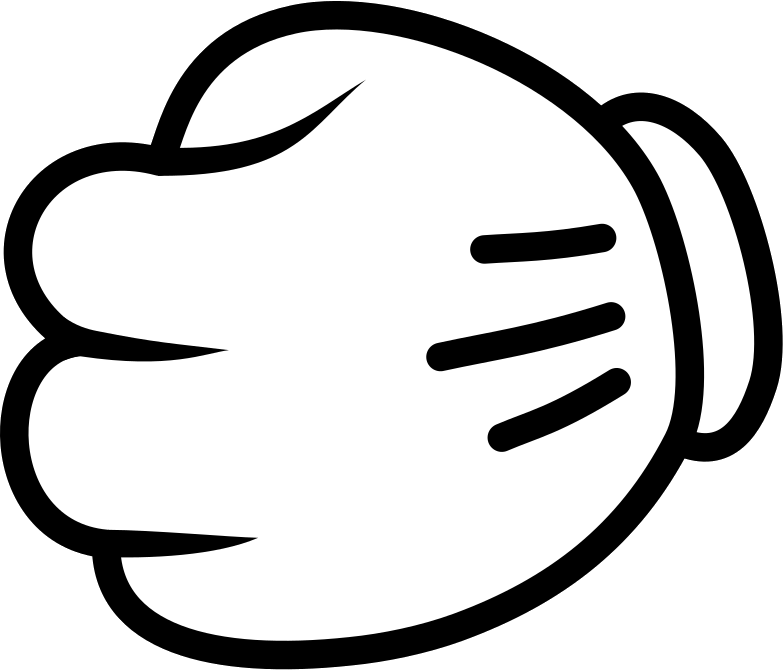
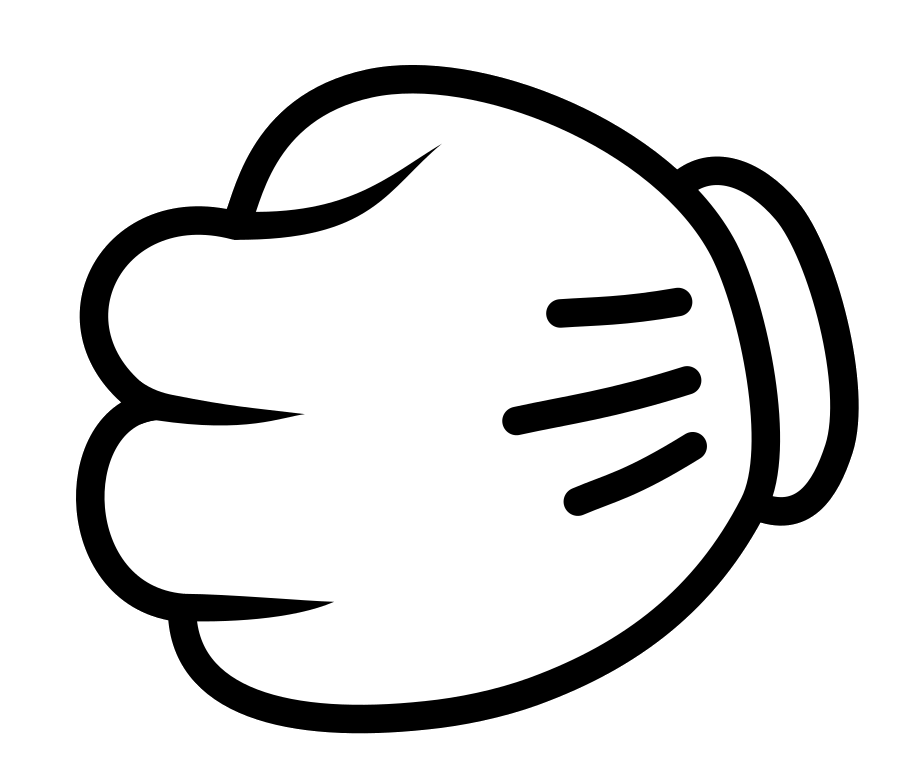
feat: functionality

Changed region(s): [[0.0, 0.0, 1.0, 1.0], [0.5211, 0.4776, 0.7356, 0.5672], [0.4598, 0.1791, 0.4904, 0.209]]

diff --git a/rock-paper-scissors.min.css b/rock-paper-scissors.min.css
@@ -1,2 +1,2 @@
-*{padding:0;margin:0}body{font-family:'Acme', sans-serif}h1{font-size:60px;margin-bottom:100px}.game{display:-webkit-box;display:-ms-flexbox;display:flex;-webkit-box-orient:vertical;-webkit-box-direction:normal;-ms-flex-direction:column;flex-direction:column;-webkit-box-align:center;-ms-flex-align:center;align-items:center;background:yellow;padding:50px;height:100vh}.game__container{display:-webkit-box;display:-ms-flexbox;display:flex;-webkit-box-pack:justify;-ms-flex-pack:justify;justify-content:space-between;width:60%}.game__computer,.game__gamer{display:-webkit-box;display:-ms-flexbox;display:flex;-webkit-box-orient:vertical;-webkit-box-direction:normal;-ms-flex-direction:column;flex-direction:column;-webkit-box-align:center;-ms-flex-align:center;align-items:center}.game__computer_rock,.game__gamer_rock{width:350px;height:300px}.game__computer_rock{background-image:url("./acess/rock.png")}.game__gamer_rock{background-image:url("./acess/rock-right.png")}.game__computer_rock,.game__gamer_rock{background-repeat:no-repeat;background-size:contain;background-position:center center}.game__name{margin:50px 0;font-size:30px}.game__control-panel{display:-webkit-box;display:-ms-flexbox;display:flex;margin:70px 0;width:100%}.game__button{width:100px;padding:10px;border:none;background:#000;color:#fff;font-size:15px;margin:0 10px;cursor:pointer;outline:none;-webkit-transition:all 0.5s;transition:all 0.5s}.game__button:hover,.game__button:active{-webkit-transform:scale(1.1);transform:scale(1.1)}.game__control-panel_play{display:none}.game__button_enabled{display:block}.game__control-panel_empty{width:45%}.game__control-panel_button{width:10%;text-align:center}.game__control-panel_buttons{width:45%;display:-webkit-box;display:-ms-flexbox;display:flex;-webkit-box-pack:center;-ms-flex-pack:center;justify-content:center}
+*{padding:0;margin:0}body{font-family:'Acme', sans-serif}h1{font-size:60px;margin-bottom:100px}.game{display:-webkit-box;display:-ms-flexbox;display:flex;-webkit-box-orient:vertical;-webkit-box-direction:normal;-ms-flex-direction:column;flex-direction:column;-webkit-box-align:center;-ms-flex-align:center;align-items:center;background:yellow;padding:50px;height:100vh}.game__container{display:-webkit-box;display:-ms-flexbox;display:flex;-webkit-box-pack:justify;-ms-flex-pack:justify;justify-content:space-between;width:60%}.game__computer,.game__gamer{display:-webkit-box;display:-ms-flexbox;display:flex;-webkit-box-orient:vertical;-webkit-box-direction:normal;-ms-flex-direction:column;flex-direction:column;-webkit-box-align:center;-ms-flex-align:center;align-items:center}.game__computer_rock,.game__gamer_rock{width:400px;height:350px}.game__computer_rock{background-image:url("./acess/rock.png")}.game__gamer_rock{background-image:url("./acess/rock-right.png")}.game__computer_rock,.game__gamer_rock{background-repeat:no-repeat;background-size:contain;background-position:center center}.game__name{margin:50px 0;font-size:30px}.game__control-panel{display:-webkit-box;display:-ms-flexbox;display:flex;margin:70px 0;width:100%}.game__button{width:100px;padding:10px;border:none;background:#000;color:#fff;font-size:15px;margin:0 10px;cursor:pointer;outline:none;-webkit-transition:all 0.5s;transition:all 0.5s}.game__button:hover,.game__button:active{-webkit-transform:scale(1.1);transform:scale(1.1)}.game__control-panel_play{display:none}.game__button_enabled{display:block}.game__button_disable{background:rgba(0,0,0,0.5)}.game__control-panel_empty{width:45%}.game__control-panel_button{width:10%;text-align:center}.game__control-panel_buttons{width:45%;display:-webkit-box;display:-ms-flexbox;display:flex;-webkit-box-pack:center;-ms-flex-pack:center;justify-content:center}.game__animated{-webkit-transform:translate(-60%);transform:translate(-60%);-webkit-transition:-webkit-transform 6s steps(6, start);transition:-webkit-transform 6s steps(6, start);transition:transform 6s steps(6, start);transition:transform 6s steps(6, start), -webkit-transform 6s steps(6, start)}
 /*# sourceMappingURL=rock-paper-scissors.min.css.map */

diff --git a/rock-paper-scissors.js b/rock-paper-scissors.js
@@ -4,30 +4,63 @@ const rockButton = document.querySelector('.game__control-panel_rock');
 const paperButton = document.querySelector('.game__control-panel_paper');
 const scissorsButton = document.querySelector('.game__control-panel_scissors');
 let gamerImage = document.querySelector('.game__gamer_rock');
+let computerImage = document.querySelector('.game__computer_rock');
+let rock = './acess/rock.png';
+let scissors = './acess/scissors.png';
+let paper = './acess/paper.png';
+const items = [rock, scissors, paper];
+let choiceGamer;
+let choiseComputer;
 
 const enableButtonPlay = () => {
   buttonPlay.classList.add('game__button_enabled');
 };
-const disableButtons = () => {
-  // дисаблить остальные кнопки при клике на play 
-};
+
+const reverseImage = () => {
+  gamerImage.style.transform = 'scale(-1, 1)';
+}
 
 const showRockImage = () => {
-  gamerImage.style.backgroundImage = 'url("./acess/rock-right.png")';
+  gamerImage.style.backgroundImage = 'url(' + rock + ')';
+  reverseImage();
 }
 
 const showScissorsImage = () => {
-  gamerImage.style.backgroundImage = 'url("./acess/scissors-right.png")';
+  gamerImage.style.backgroundImage = 'url(' + scissors + ')';
+  reverseImage();
 }
 
 const showPaperImage = () => {
-  gamerImage.style.backgroundImage = 'url("./acess/paper-right.png")';
+  gamerImage.style.backgroundImage = 'url(' + paper + ')';
+  reverseImage();
+}
+
+const startPlay = () => {
+  dissabledButtons();
+  // shakerAnimation(); ??? добавить анимацию
+  showChoiceComputers();
+};
+
+const dissabledButtons = () => {
+  buttons.forEach(el => {
+    el.classList.add('game__button_disable');
+    el.disabled = true;
+  });
+}
+
+const showChoiceComputers = () => {
+  choiseComputer = items[Math.floor(Math.random() * 3)];   
+  computerImage.style.backgroundImage = 'url(' + choiseComputer + ')';
 }
 
 buttons.forEach(element => {
   return element.addEventListener('click', enableButtonPlay);
 });
 
-rockButton.addEventListener('click', showRockImage);
-scissorsButton.addEventListener('click', showScissorsImage);
-paperButton.addEventListener('click', showPaperImage);
+// rockButton.addEventListener('click', showRockImage);
+// scissorsButton.addEventListener('click', showScissorsImage);
+// paperButton.addEventListener('click', showPaperImage);
+buttonPlay.addEventListener('click', startPlay);
+
+
+

diff --git a/rock-paper-scissors.scss b/rock-paper-scissors.scss
@@ -37,8 +37,8 @@ h1 {
   }
   &__computer_rock,
   &__gamer_rock {
-    width: 350px;
-    height: 300px;
+    width: 400px;
+    height: 350px;
   }
   &__computer_rock {
     background-image: url('./acess/rock.png');
@@ -83,6 +83,9 @@ h1 {
   &__button_enabled {
     display: block;
   }
+  &__button_disable {
+    background: rgba(0, 0, 0, 0.5);
+  }
   &__control-panel_empty {
     width: 45%;
   }
@@ -95,4 +98,10 @@ h1 {
     display: flex;
     justify-content: center;
   } 
+  &__animated {
+    // transition-property: margin-top;
+    // transition-property: .5s;
+    transform: translate(-60%);
+    transition: transform 6s steps(6, start);
+  }
 }
